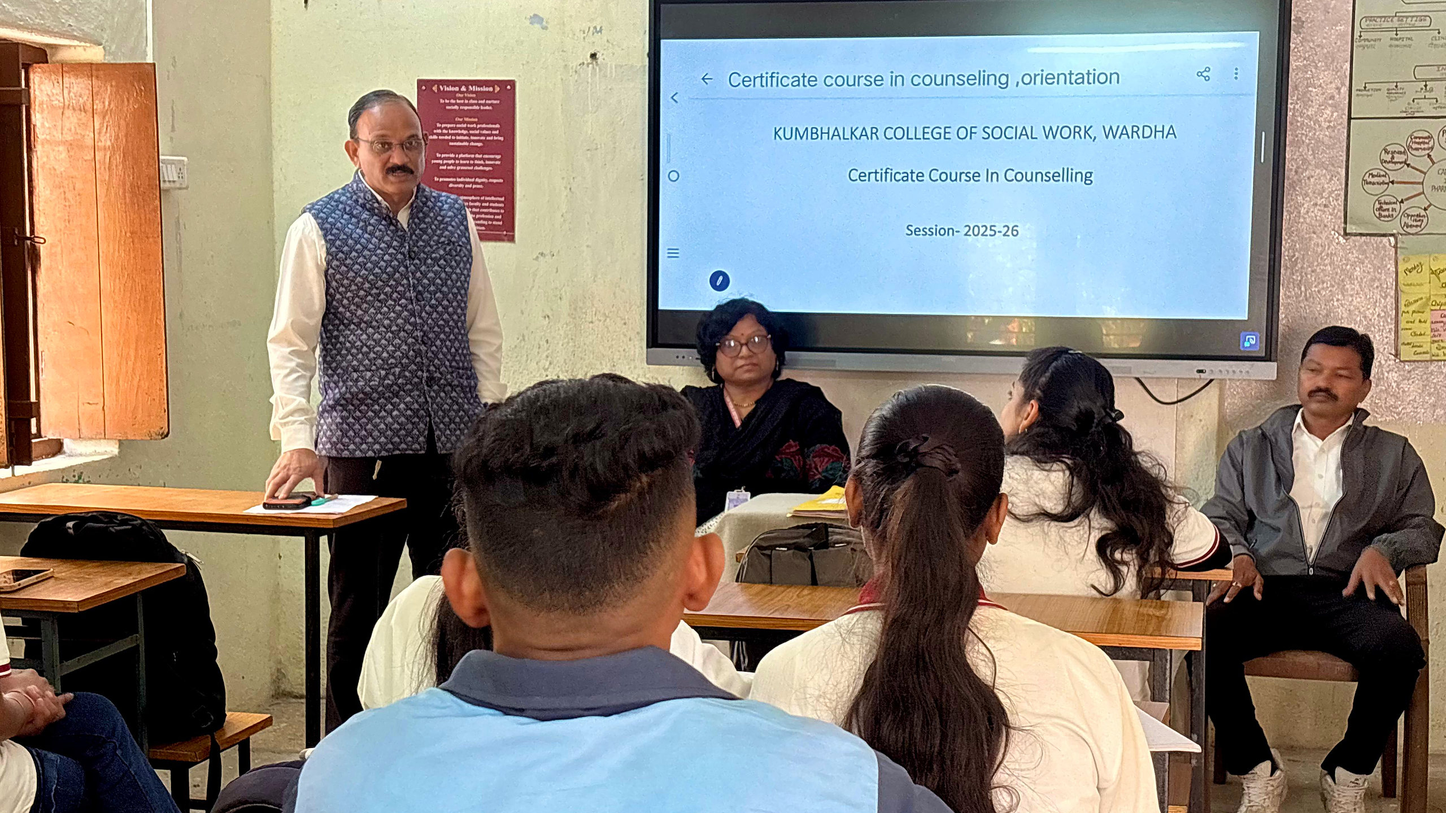
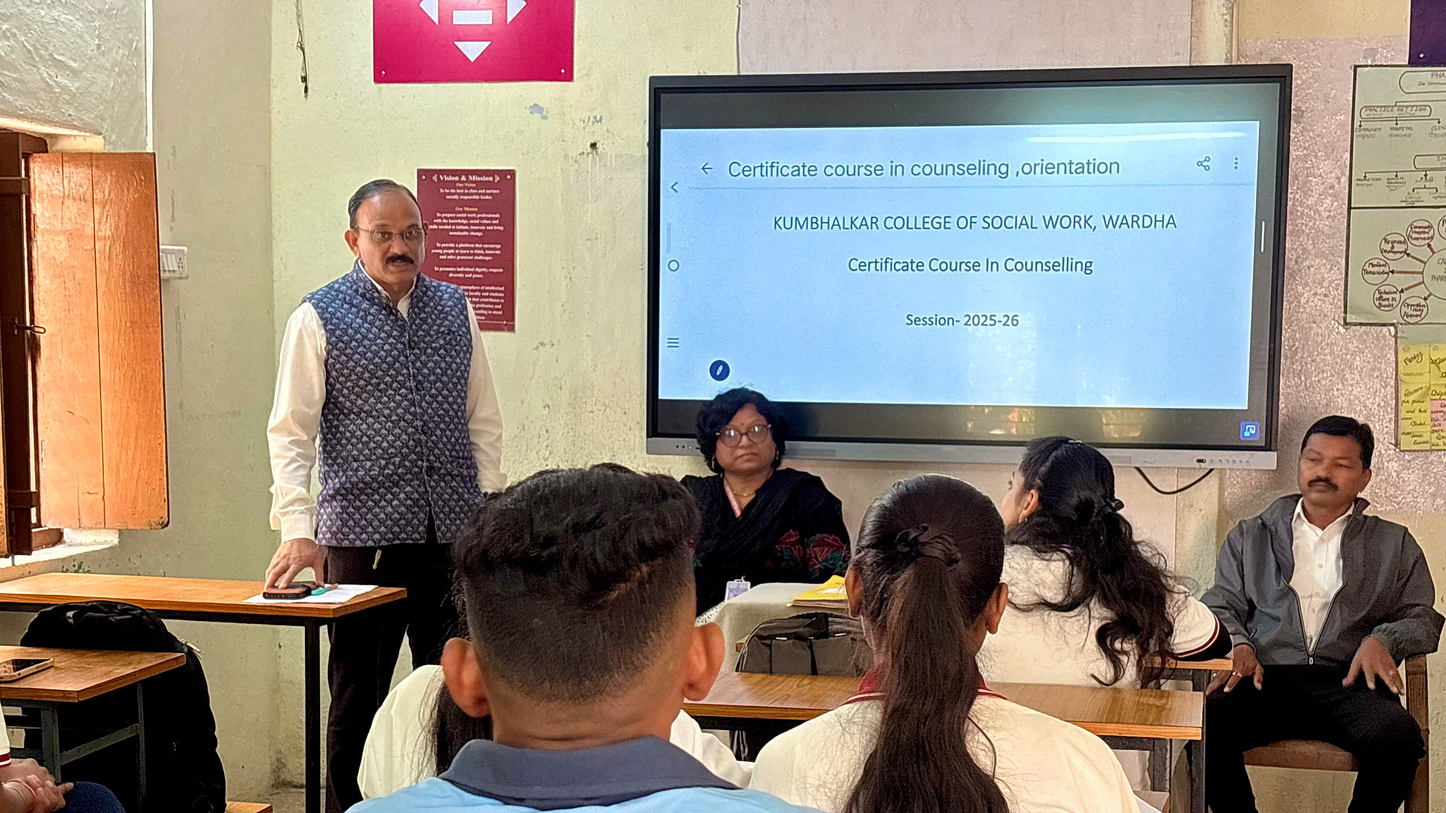
Homepage photos: zoomed-out counselling hero, real photos for About, Student life and admissions band; drop old low-res images
Claude-Session: https://claude.ai/code/session_01Do9QswRFXDhsAprvuuFv9X

diff --git a/src/components/Sections.tsx b/src/components/Sections.tsx
@@ -8,13 +8,14 @@ import { SmartLink } from './SmartLink';
 import { docs } from '@/lib/docs';
 import { waLink } from '@/lib/site';
 import { Arrow, Icon, Wheel } from './Icon';
-import hero from '@/assets/img/hero.jpg';
-import e1 from '@/assets/img/e1.jpg';
-import e2 from '@/assets/img/e2.jpg';
-import e3 from '@/assets/img/e3.jpg';
+import admBg from '@/assets/img/adm-bg.jpg';
+import storyCamp from '@/assets/img/story-camp.jpg';
+import lifeNss from '@/assets/img/life-nss.jpg';
+import lifeVillage from '@/assets/img/life-village.jpg';
+import lifeTeam from '@/assets/img/life-nss-team.jpg';
 import principalPhoto from '@/assets/img/principal.jpg';
 
-const lifeImages = { e1, e2, e3 } as const;
+const lifeImages = { nss: lifeNss, village: lifeVillage, team: lifeTeam } as const;
 
 export function Programs() {
   return (
@@ -58,7 +59,7 @@ export function Story() {
           </div>
           <div className="story__b">
             <div className="ph rv">
-              <Image src={e3} alt="Students and faculty gathered under trees on the campus" sizes="(min-width: 900px) 50vw, 100vw" />
+              <Image src={storyCamp} alt="Students and faculty sitting in a circle for a group session by a lake" sizes="(min-width: 900px) 50vw, 100vw" />
               <span className="keyline" />
             </div>
           </div>
@@ -71,7 +72,7 @@ export function Story() {
 export function Admission() {
   return (
     <section className="adm weave-d sec" id="admission" aria-labelledby="adm-h">
-      <Image className="adm__bg kb" src={hero} alt="" fill sizes="100vw" quality={50} />
+      <Image className="adm__bg kb" src={admBg} alt="" fill sizes="100vw" quality={50} />
       <div className="wrap">
         <div className="adm__g">
           <div className="adm__a">
@@ -153,7 +154,6 @@ export function Life() {
                 <Image
                   src={lifeImages[p.key]} alt={p.alt}
                   sizes="(min-width: 1100px) 40vw, (min-width: 768px) 30vw, 230px"
-                  style={'position' in p ? { objectPosition: p.position } : undefined}
                 />
               </div>
               <figcaption>{p.caption}</figcaption>

diff --git a/src/lib/content.ts b/src/lib/content.ts
@@ -84,9 +84,9 @@ export const notices = [
 ] as const;
 
 export const lifePhotos = [
-  { key: 'e1', alt: 'Faculty and guests standing together on the campus lawn', caption: 'Faculty and guests on the campus lawn' },
-  { key: 'e2', alt: 'A community meeting with people seated in a hall', caption: 'A community meeting in session' },
-  { key: 'e3', alt: 'Students listening to a faculty member outdoors', caption: 'Students in conversation outdoors', position: '60% 50%' },
+  { key: 'nss', alt: 'NSS volunteers and faculty tending the college garden', caption: 'NSS volunteers on campus' },
+  { key: 'village', alt: 'Students and villagers cleaning a village lane', caption: 'A cleanliness drive in a village' },
+  { key: 'team', alt: 'NSS volunteers and faculty in uniform at a roadside awareness stall', caption: 'NSS team at an awareness stall' },
 ] as const;
 
 /** Tiles under "Life and field work". */

diff --git a/src/components/Hero.tsx b/src/components/Hero.tsx
@@ -23,7 +23,7 @@ const SLIDES: Slide[] = [
     en: { eyebrow: 'BSW, MSW and Ph.D. in Wardha', h: 'Education that serves.', sub: 'Social work education in Sevagram, Wardha, since 1993.', btn: 'Apply for 2026-27' },
   },
   {
-    img: e2, alt: 'Faculty addressing students at the certificate course in counselling orientation', pos: '50% 50%', href: '/academics',
+    img: e2, alt: 'Faculty addressing students at the certificate course in counselling orientation', pos: '24% 22%', href: '/academics',
     en: { eyebrow: 'Short courses', h: 'Certificate course in counselling.', sub: 'Faculty-led sessions for students, alongside the BSW, MSW and Ph.D. programmes.', btn: 'Our programmes' },
   },
   {
